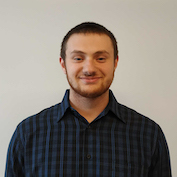
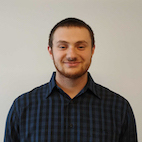
Updated Members

diff --git a/about.html b/about.html
@@ -247,6 +247,17 @@
 												and performing machine learning to assist our group in developing novel, soft biomaterials.
 												<br /><br /><br /><br /><br />
 											</p>
+
+											<p align="justify">
+												<span class="image left">
+													<a href="images/colin_whitten.png"><img src="images/colin_whitten.png" alt="" /></a>
+												</span>
+												Colin Whitten is from Stuttgart, Germany, and is a M.Eng. student in our group.
+												He obtained his Bachelor's degree in Civil Engineering from Cornell University in 2019.
+												His research interests are in performing machine learning to assist our group in molecular dynamics simulations.
+												In his spare time he enjoys playing basketball and guitar.
+												<br /><br /><br /><br /><br />
+											</p>
 										</article>
 
 										<!-- Post -->
